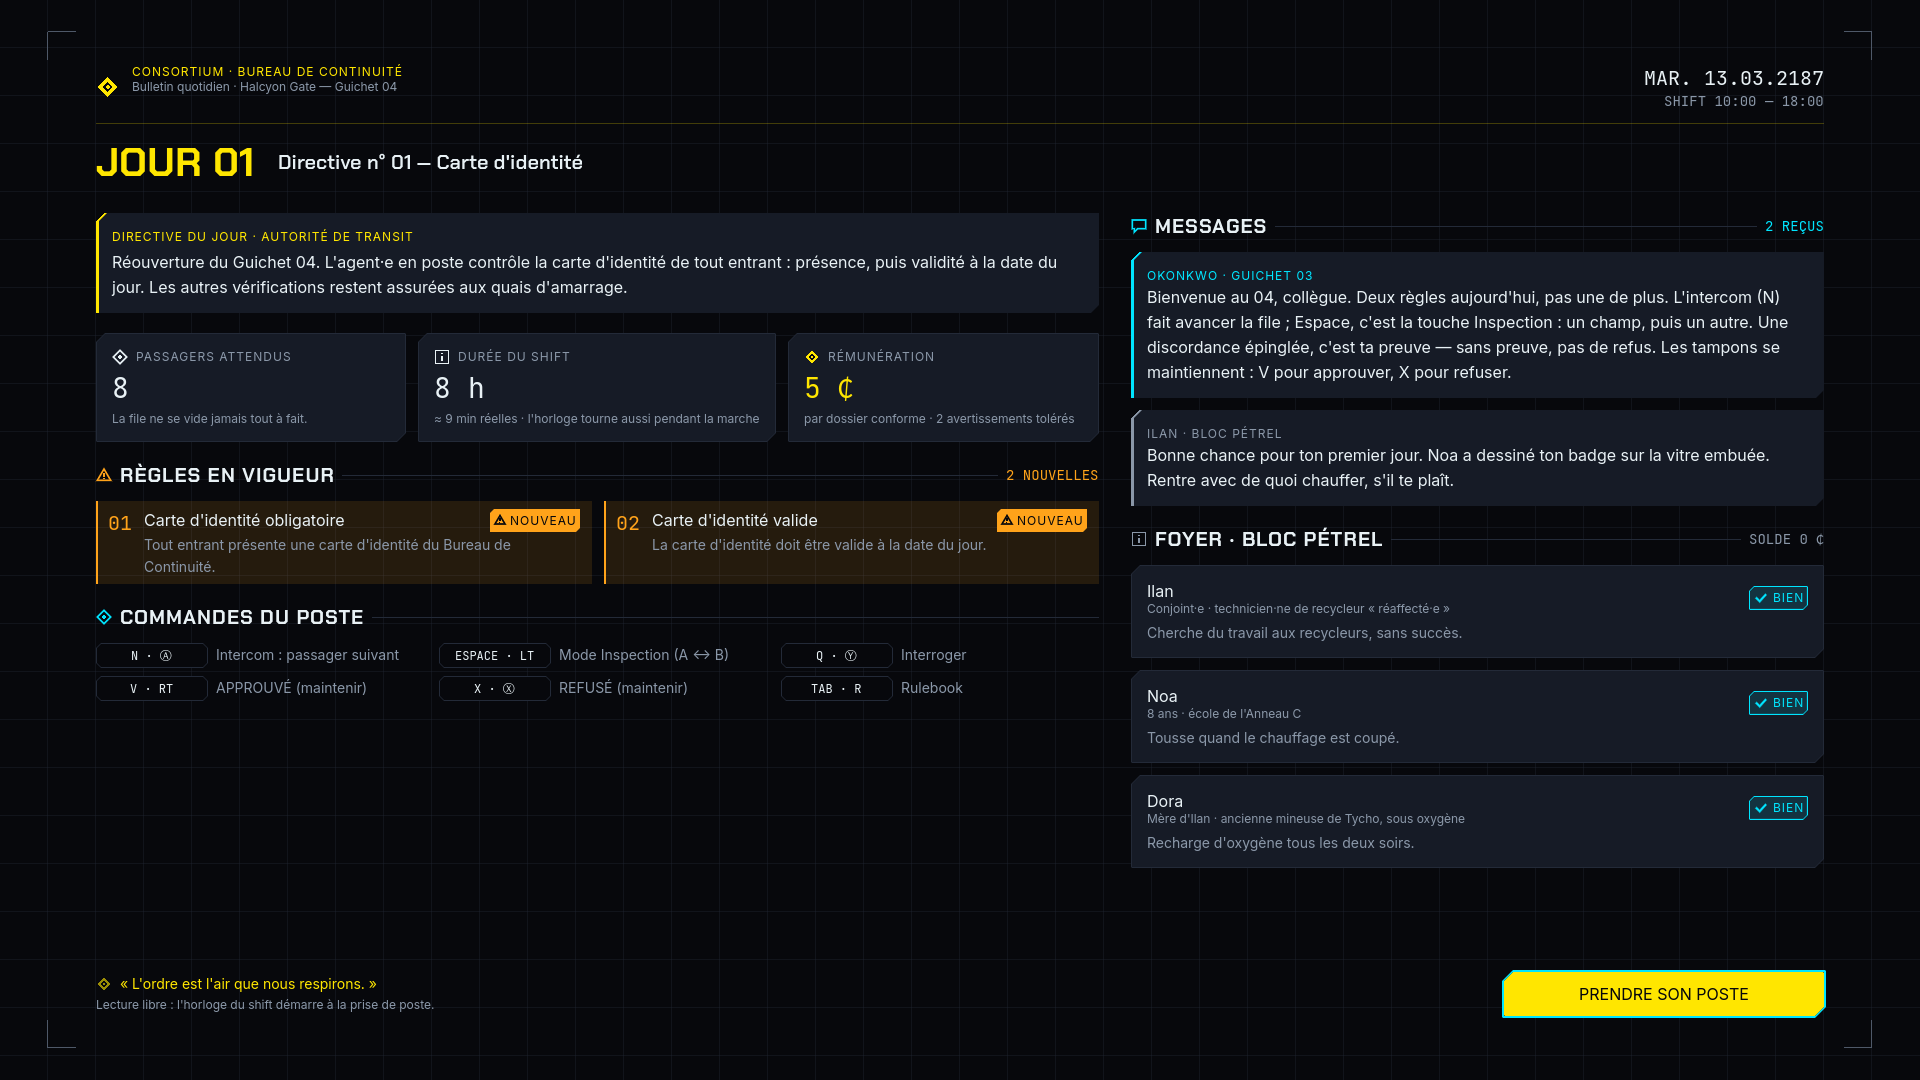
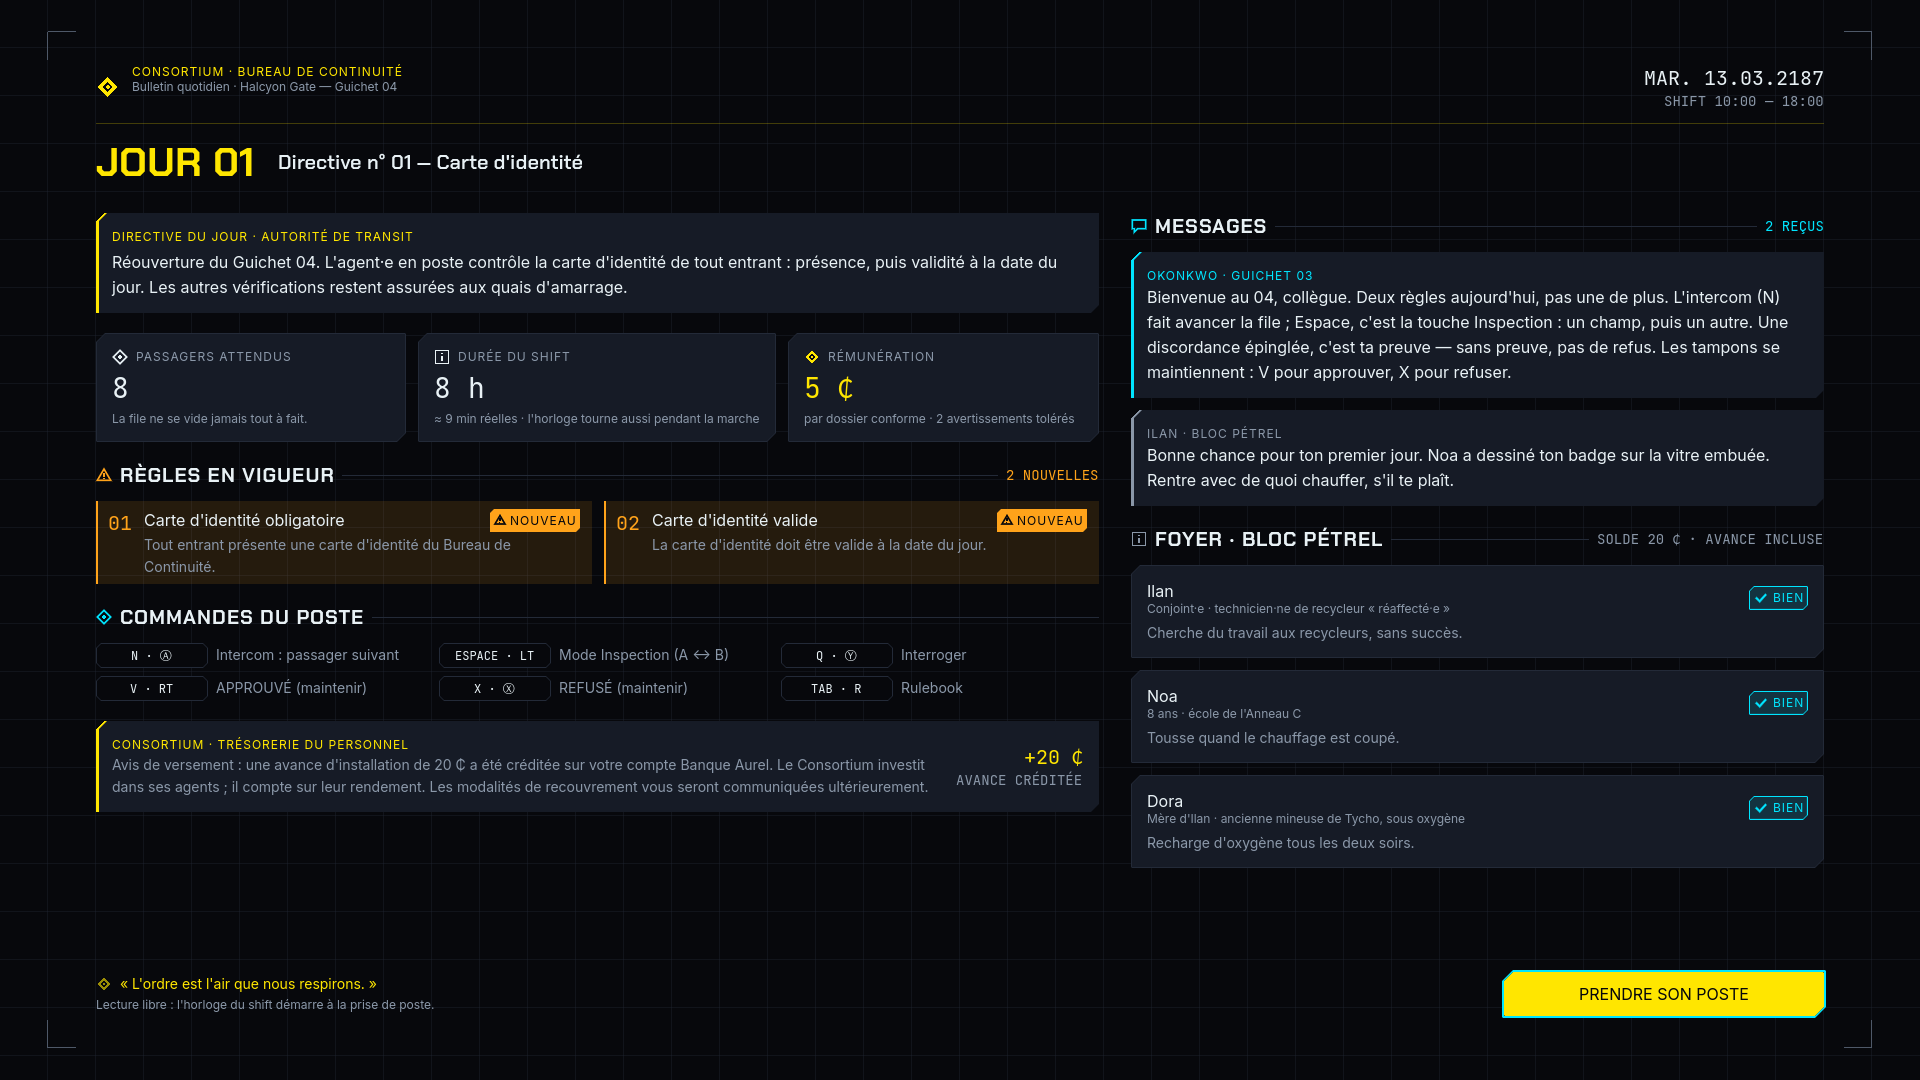
Finition : répliques de confrontation par type de discordance, avance du Consortium affichée, option mono, sons UI branchés, réplique de visière scénarisée (356/356 tests)
Complète le commit précédent, qui avait embarqué une partie de ces changements en cours.

Claude-Session: https://claude.ai/code/session_01NEYy5LSpJjycKEdShbH7FY

Changed region(s): [[0.0312, 0.6417, 0.5938, 0.7639], [0.8438, 0.4889, 0.9375, 0.5194]]

diff --git a/docs/UI_FLOW.md b/docs/UI_FLOW.md
@@ -205,7 +205,7 @@ Le maintien de 0,4 s sur les tampons évite les verdicts accidentels (désactiva
 
 Capture de référence : [`docs/mockups/m4_comparison.png`](mockups/m4_comparison.png) (démo `scenes/ui/comparison_ui_demo.tscn`).
 
-- **Sujets d'interrogatoire** (`interrogation_requested(topic)`) : questions de base `purpose`, `stay`, `origin` ; `remove_visor` tant que le visage présenté est masqué ; **une question par discordance confirmée** : `about_<raison>[:<document>]` (`about_expired:entry_permit`, `about_mismatch:id_card`, `about_face_mismatch`, `about_rule_violated:…`). Texte de la question : clé `q_<sujet sans suffixe>` (`{doc}` remplacé par le titre du document). La réponse est affichée telle que reçue (`interrogation_answered(topic, line_key)` → `tr(line_key)`).
+- **Sujets d'interrogatoire** (`interrogation_requested(topic)`) : questions de base `purpose`, `stay`, `origin` ; `remove_visor` tant que le visage présenté est masqué ; **une question par discordance confirmée** : `about_<raison>[:<document>]` (`about_expired:entry_permit`, `about_mismatch:id_card`, `about_face_mismatch`, `about_rule_violated:…`). Texte de la question : clé `q_<sujet sans suffixe>` (`{doc}` remplacé par le titre du document). La réponse est affichée telle que reçue (`interrogation_answered(topic, line_key)` → `tr(line_key)`). Réplique d'un sujet `about_…` : famille de la discordance (visage, N° ID, nom, naissance, validité, document manquant, émetteur, origine, santé, autre) → `line_about_<famille>_<n>` si elle a été constatée (gêne, excuse, mensonge ; NERVOUS), `line_about_<famille>_outrage_<n>` sinon (indignation ; ANGRY), variante tirée de la graine du cas ; la réaction qui suit une réponse n'en remplace pas le sous-titre (seule l'étiquette `[nerveux]`… s'ajoute). Visière : `<dialogue_id>_visor` pour un passager scénarisé. Départ : `bark_depart_ok|denied|detained` sous-titré 1,5 s après le tampon. Signaux publics de `ComparisonUI` pour l'audio : `hovered`, `toast_shown(kind)`, `departure_line_shown(key, text)`.
 - **Déverrouillage** : tampons, Inspection et Interroger exigent `phase == INSPECTING` **et** `documents_presented` reçu pour le cas courant, et aucun verdict déjà posé ; « Suivant » n'est actif qu'en `WAITING_CASE` (anti-rebond 0,5 s), libellé « EN APPROCHE » / « DÉPART » sinon.
 - **Tampon DÉTENTION** affiché seulement si le RuleSet du jour contient une règle de sévérité ≥ `RuleEngine.DETAIN_SEVERITY` (donnée, pas de numéro de jour en dur).
 - **Concordant** : pas d'étiquette sur le fil (elle masquerait des valeurs) ; le bandeau du plan de travail et les coches des deux champs portent le « ✓ ».

diff --git a/docs/AUDIO.md b/docs/AUDIO.md
@@ -346,7 +346,7 @@ L'`AudioDirector` (nœud de `day.tscn`) est le **seul** écouteur audio de l'Eve
 | Musique | 5 boucles 24 s à 80 BPM (briefing, shift calme, shift tension < 25 % du temps, bilan, bilan mineur si solde négatif), fondus 2,5 s entre 2 lecteurs | `AudioStreamInteractive` non utilisé (transitions sur la mesure à faire si besoin) |
 | Formats | SFX/UI/one-shots : WAV 16 bits mono 48 kHz ; boucles : OGG Vorbis 48 kHz stéréo (q4–5), `loop`/`bpm` dans les `.import` ; total ≈ 9 Mo | — |
 
-**Cues couvertes** : toutes celles de §4 sauf `passenger.bark_depart` (pas de sous-titre côté UI → règle « toujours sous-titré »), `booth.stamp_lift`, `ui.link_drag`, `ui.hover` et `ui.toast_*` (assets prêts, aucun signal public côté UI), `ui.rebel_message` (post-MVP). Sondes UI sans modifier l'UI : `ComparisonUI.selection.a` (sélection A) et `tool_bar.stamps[*].is_holding()` (tampon maintenu, `ui.stamp_hold`).
+**Cues couvertes** : toutes celles de §4 sauf `ui.link_drag` et `ui.rebel_message` (post-MVP). Branchées lors de la passe de finition : `passenger.bark_depart` (sous-titré 1,5 s après le tampon via `ComparisonUI.departure_line_shown`), `booth.stamp_lift` (0,4 s après le tampon), `ui.hover` (signal `ComparisonUI.hovered`, 90 ms minimum entre deux) et `ui.toast_*` (signal `toast_shown(kind)`). Sondes UI sans modifier l'UI : `ComparisonUI.selection.a` (sélection A) et `tool_bar.stamps[*].is_holding()` (tampon maintenu, `ui.stamp_hold`).
 
 **Accessibilité vérifiée** : chaque cue critique a son doublage visuel existant (timer : barre ambre/rouge ; tampon : animation + empreinte ; discordance : lien magenta + numéro ; concordance : chip ; citation : ticket ; règle nouvelle : badge NOUVEAU ; barks : sous-titres). « Réduire les effets » (`fx_intensity < 1`) coupe `ui.timer_critical_tick` et adoucit les tampons de 4 dB.
 
